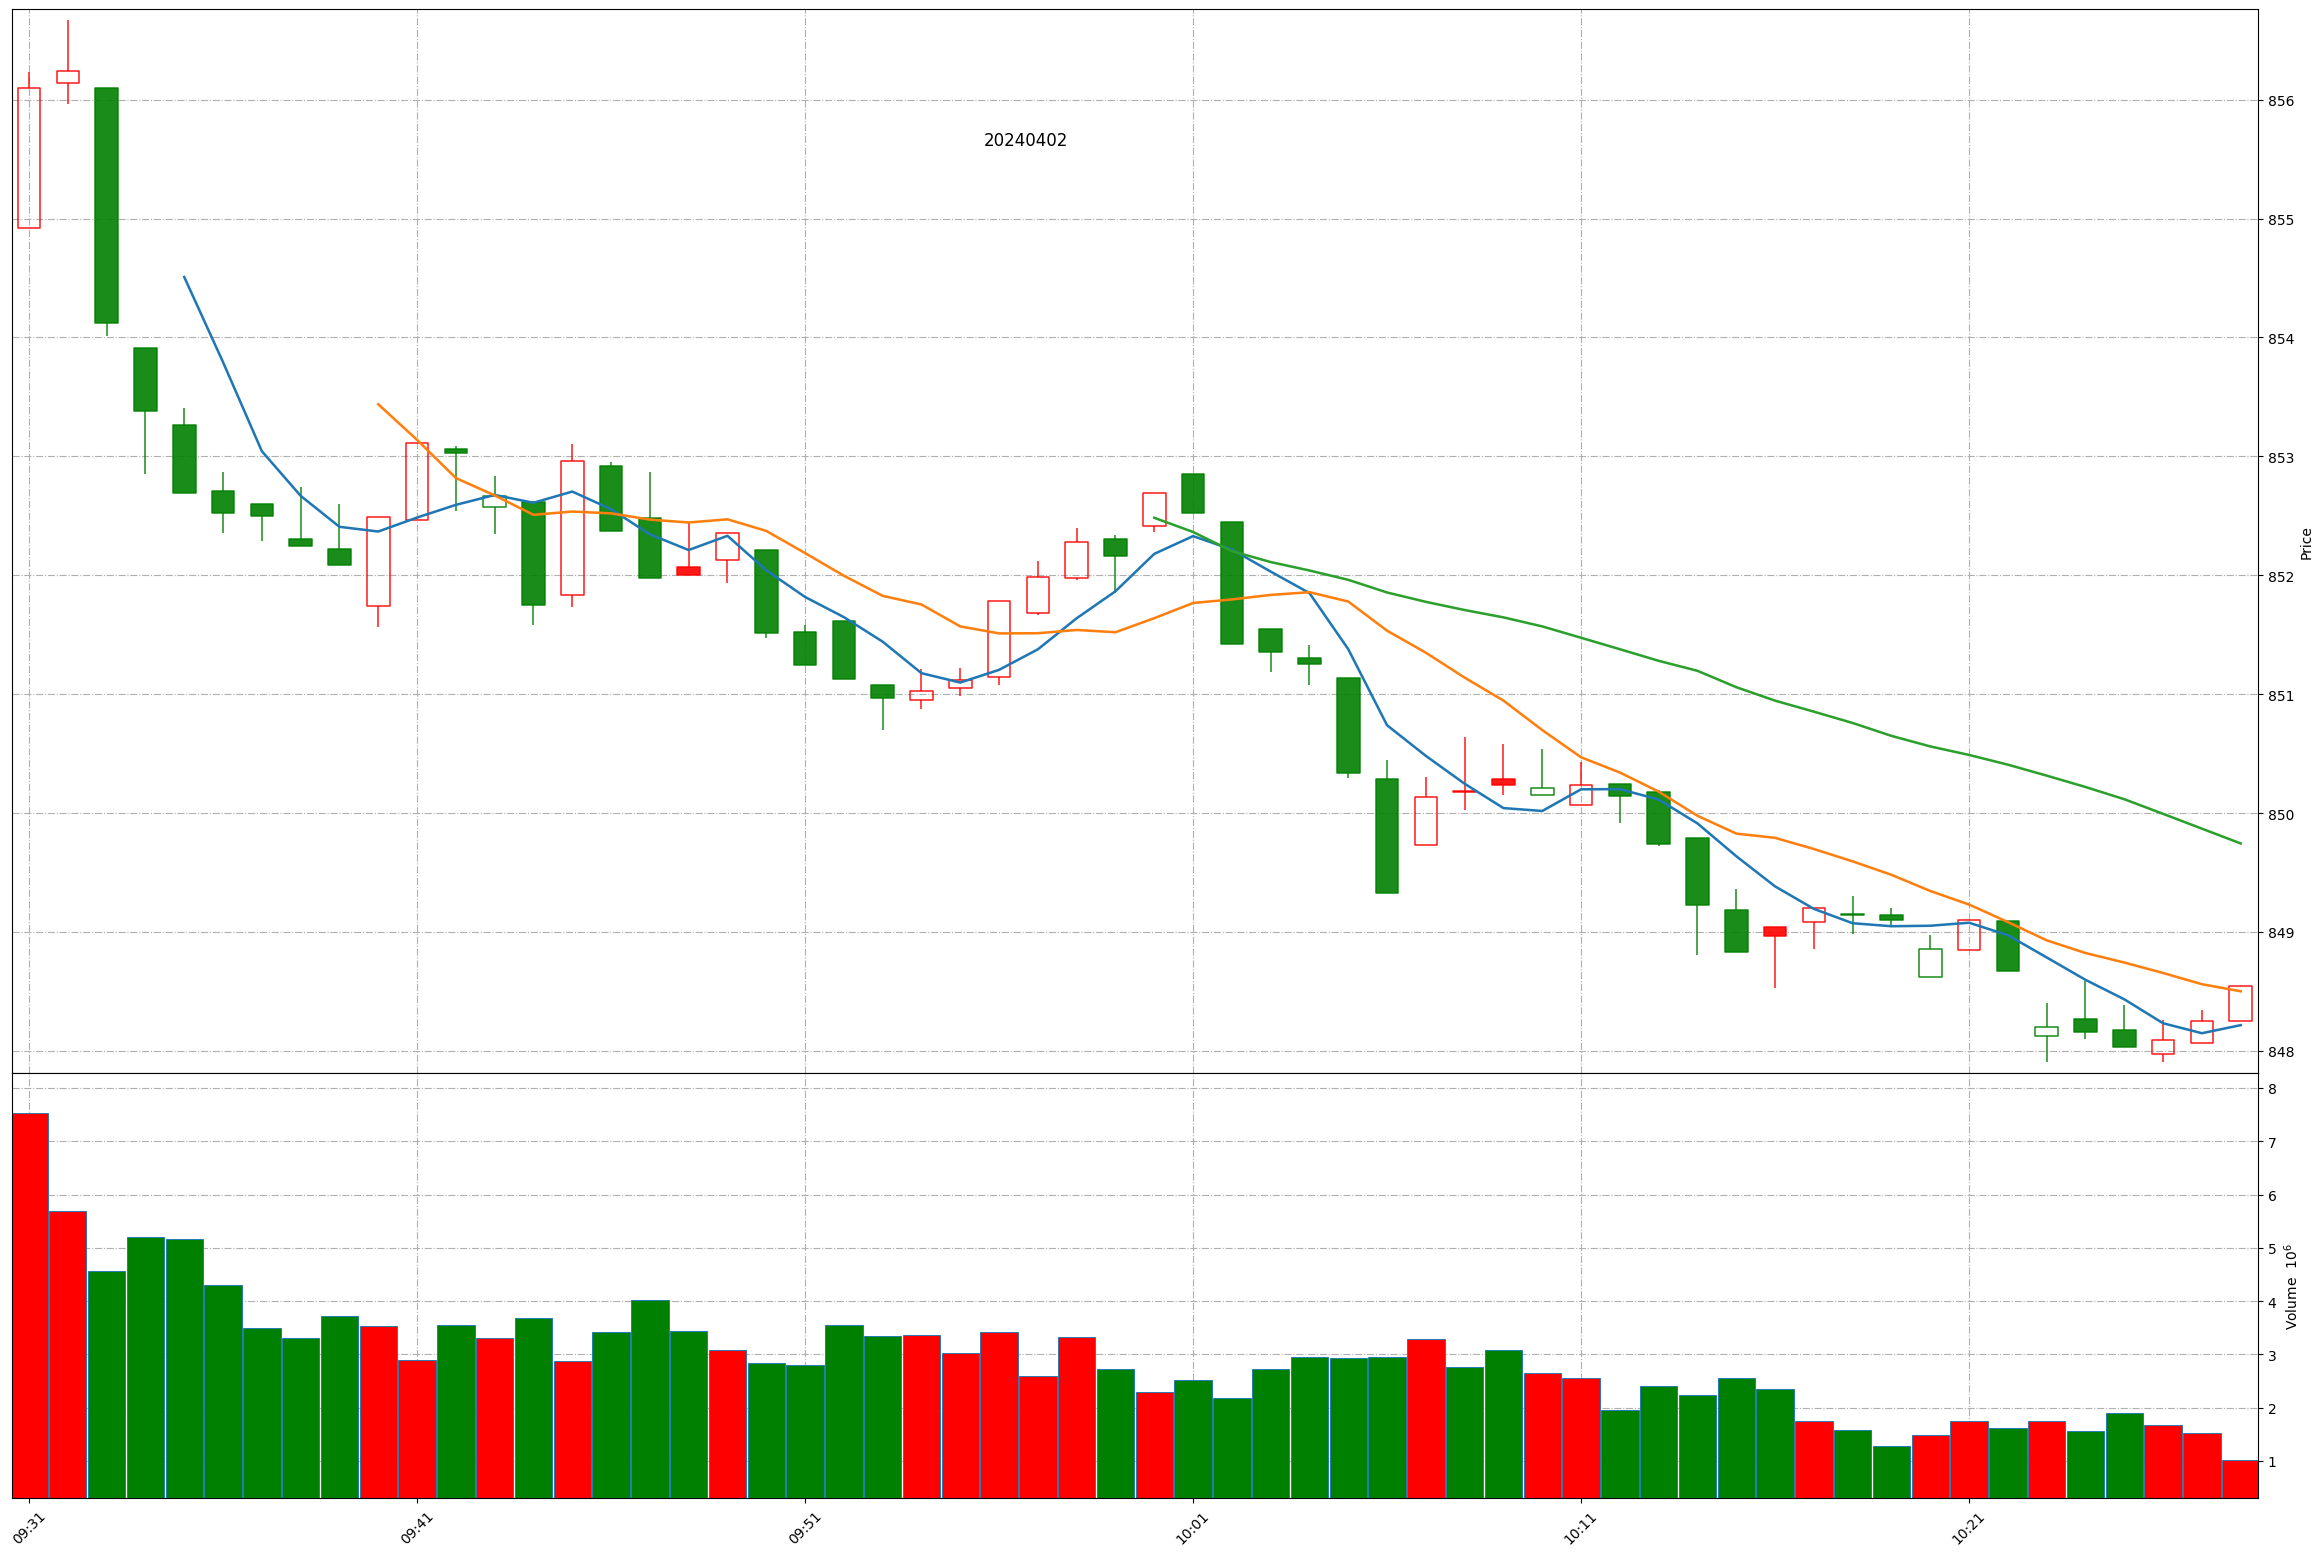
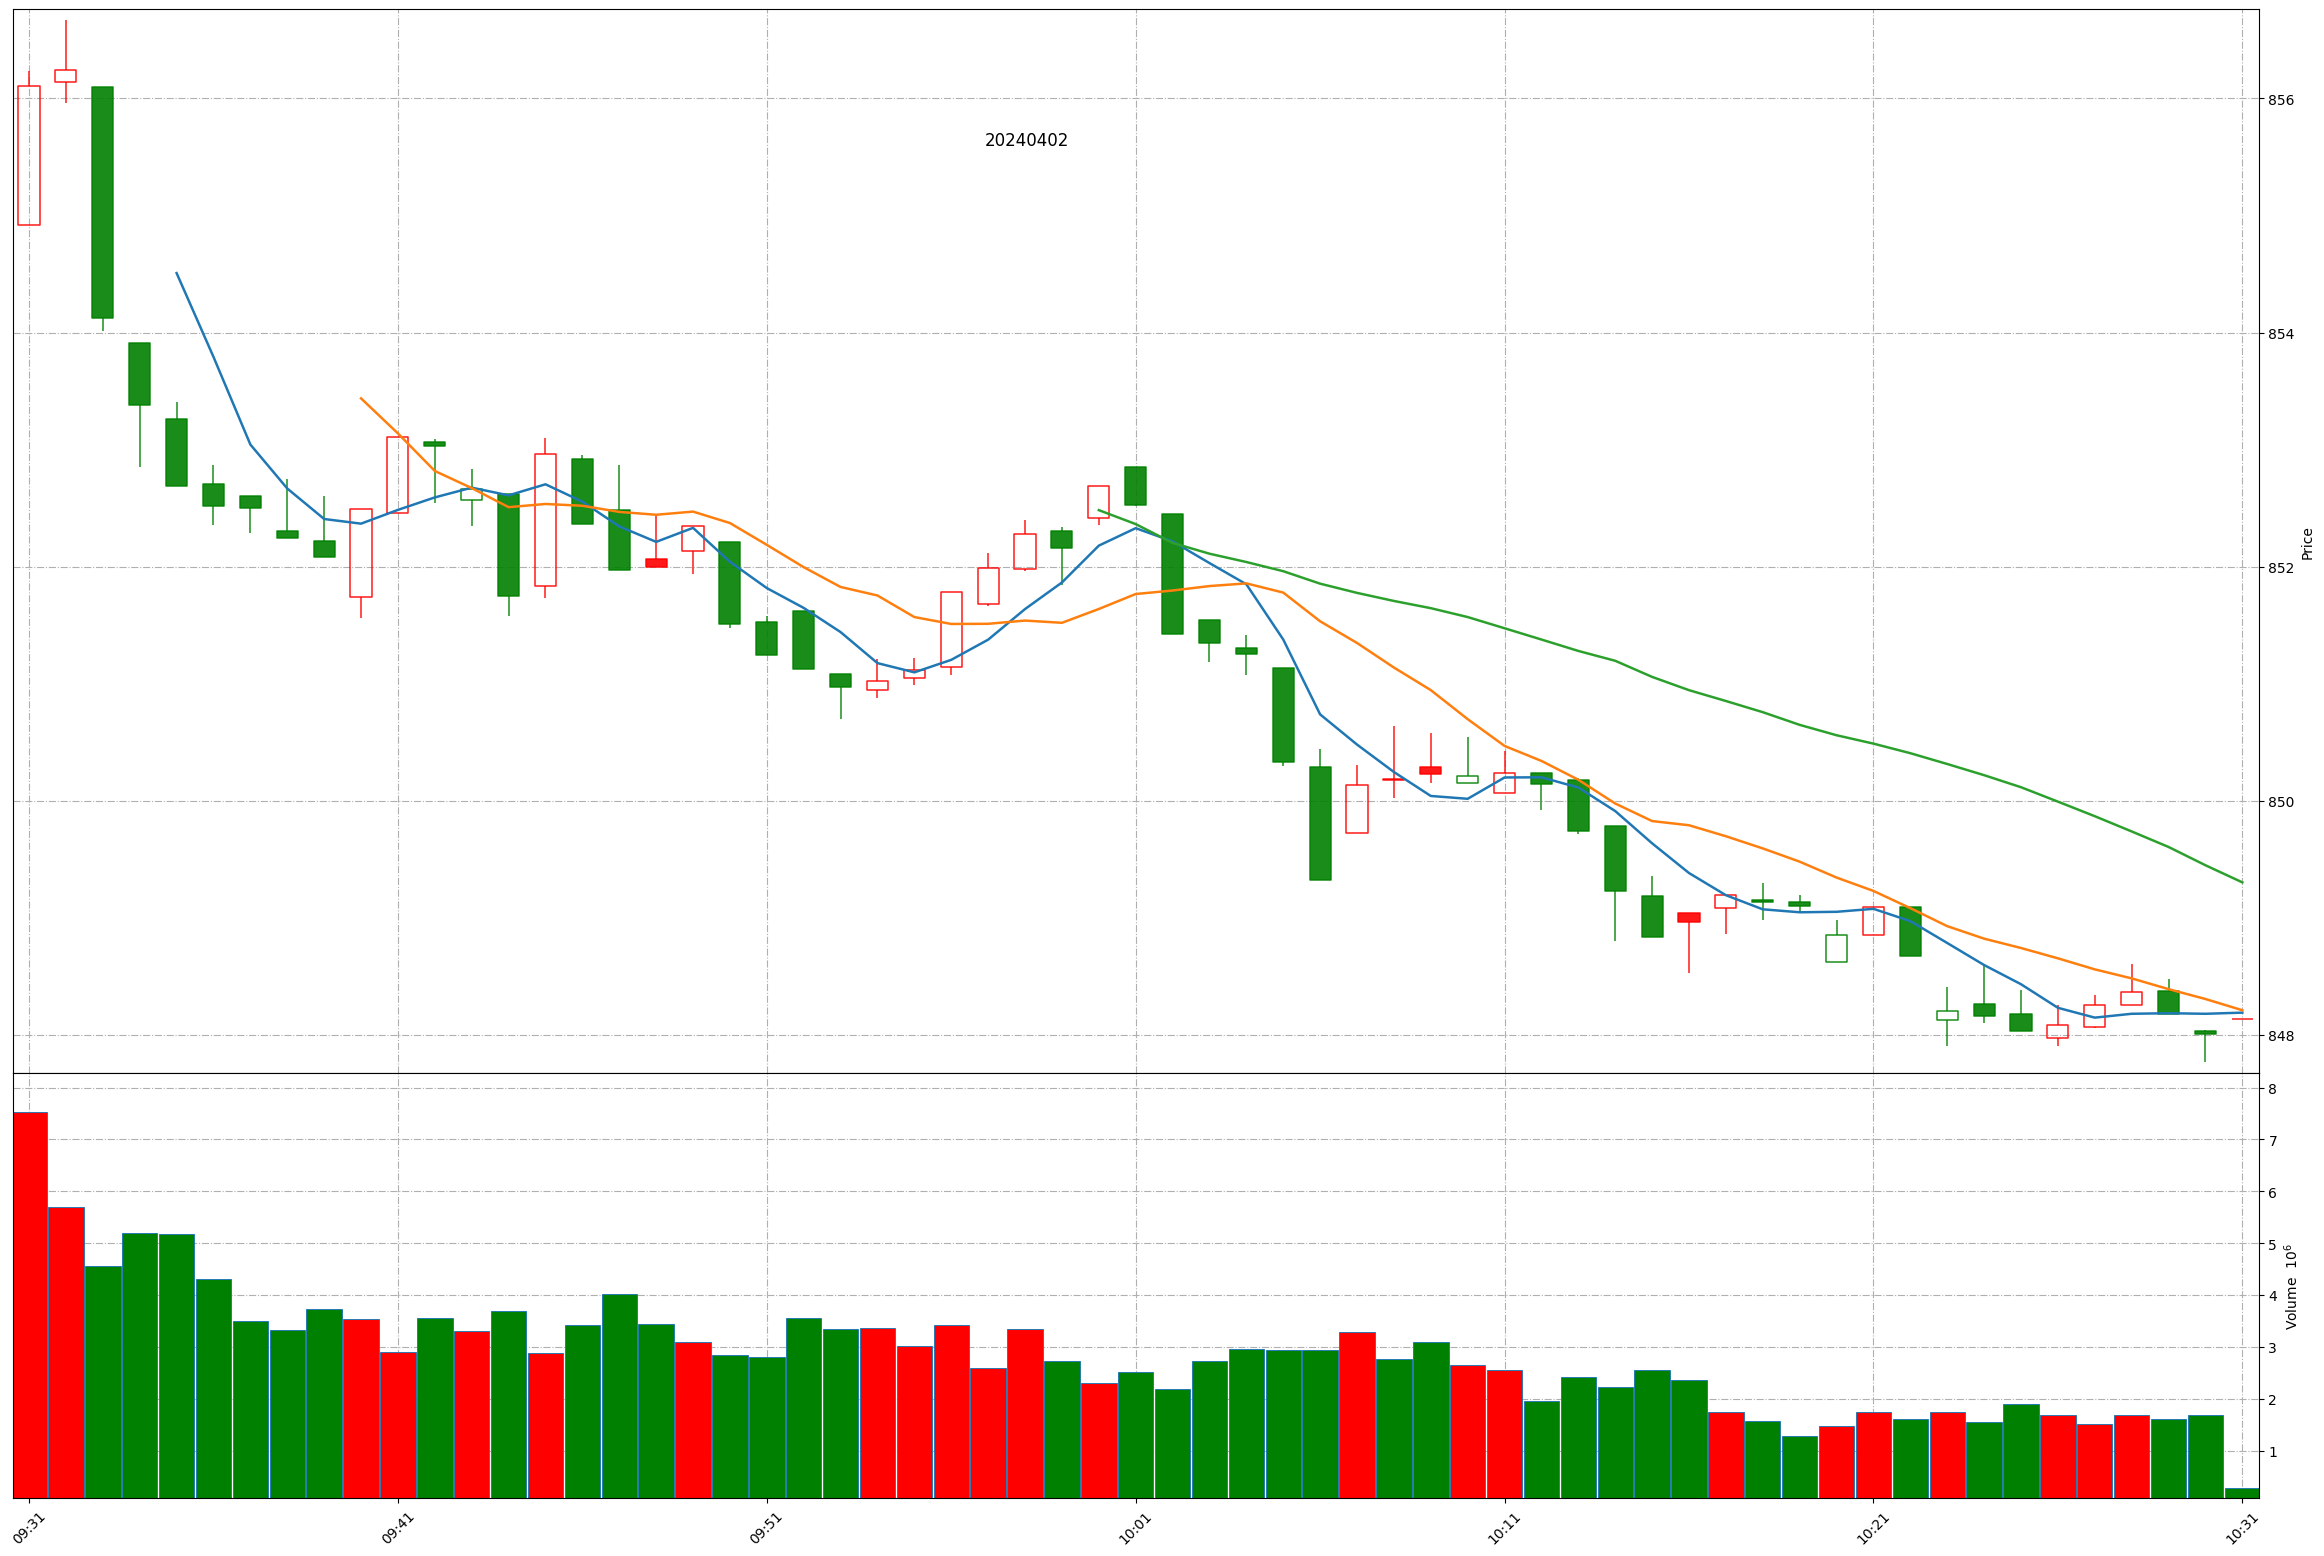
Github action update at 2024-04-02 10:30:21.

diff --git a/README.md b/README.md
@@ -1,11 +1,11 @@
 
 # Daily-A-share-market-quotes 每日 A 股指数（5min 更新）- 20240402
 
-### 上证指数 20240402 10:27
+### 上证指数 20240402 10:30
 ![](./fig/2024/4/20240402-sh000001.png)
 
-### 深证成指 20240402 10:27
+### 深证成指 20240402 10:30
 ![](./fig/2024/4/20240402-sz399001.png)
 
-### 北证50 20240402 10:27
+### 北证50 20240402 10:30
 ![](./fig/2024/4/20240402-bj899050.png)
